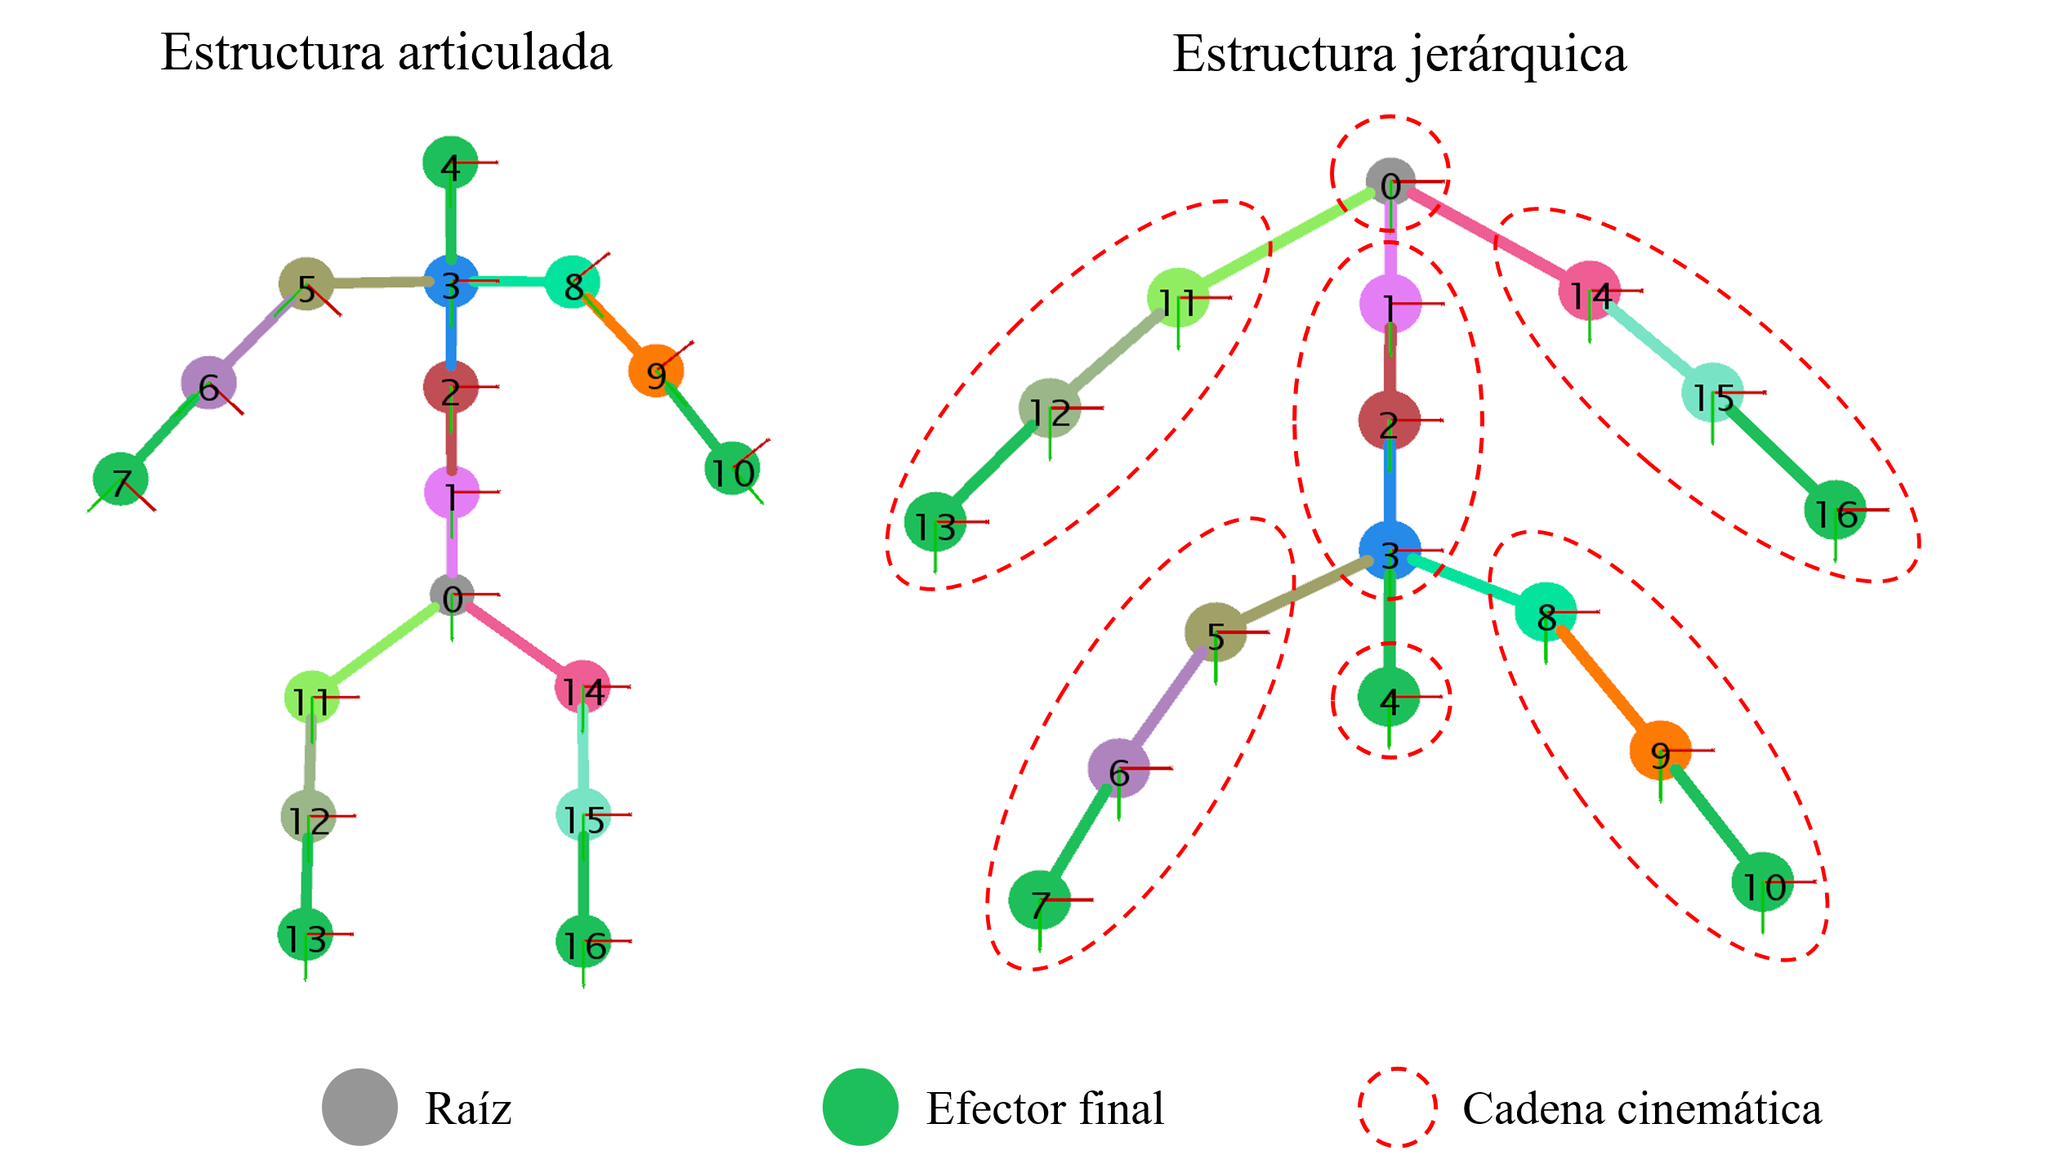
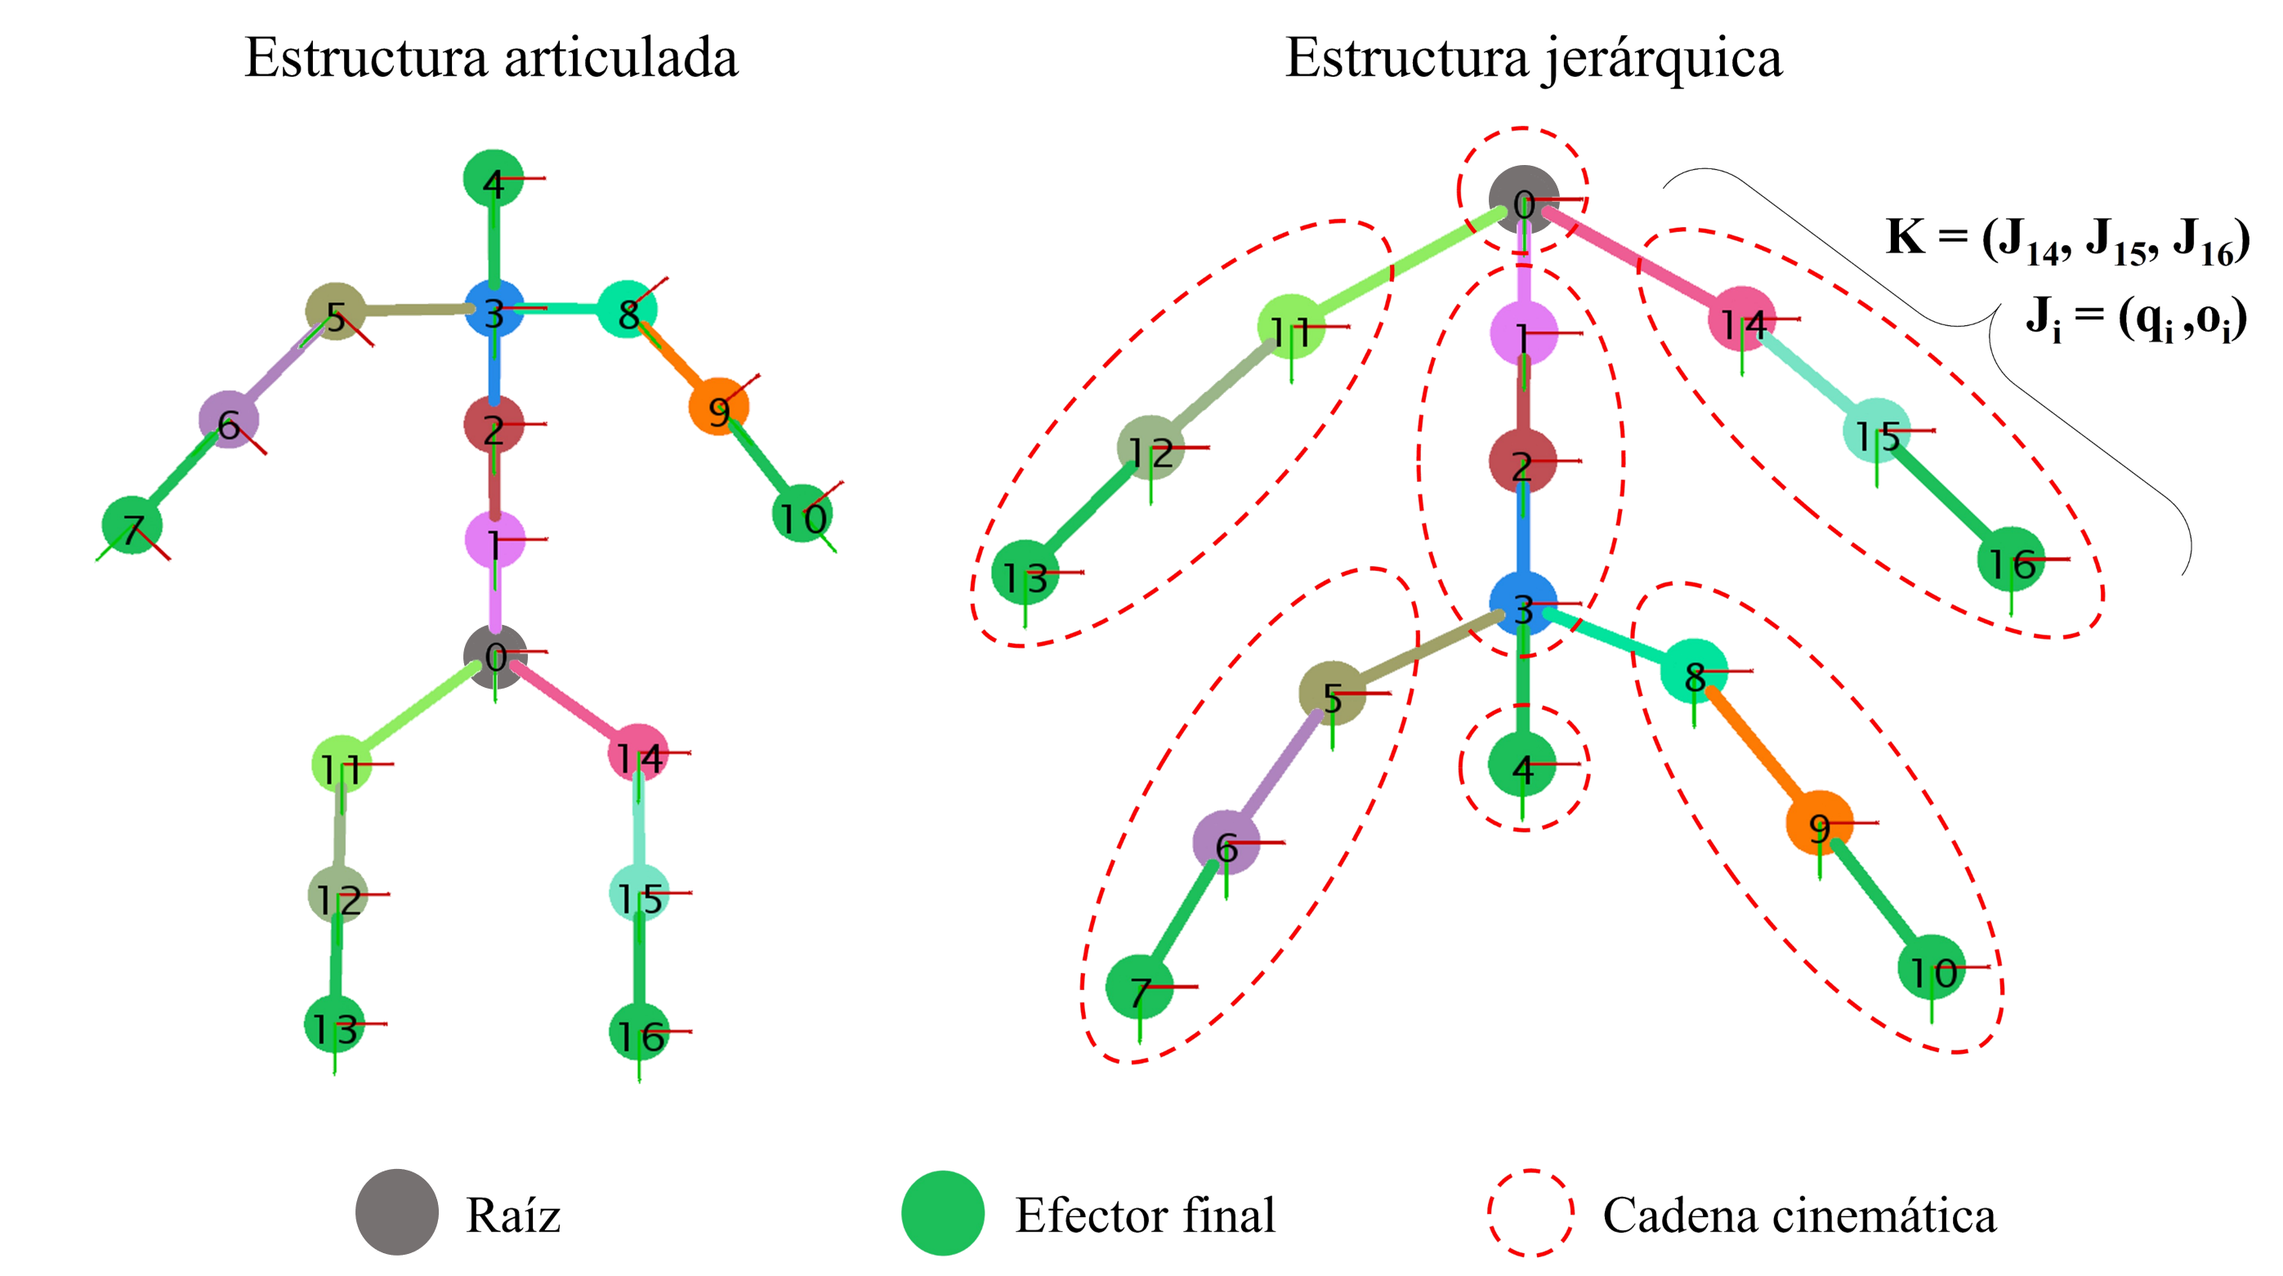
Figs updated and Slides refined

diff --git a/index.html b/index.html
@@ -109,9 +109,15 @@
 
 					<section>
 						<h3><a href="notation.html#/1" target="_blank" style="color: blue;">Estructura articulada - (Estructura de esqueleto)</a></h3>
-						<figure class="fragment" data-fragment-index="4">
-							<img width = "60%" data-src='fig/1Skeleton.jpg'/>
-						</figure>
+
+						<div class="r-stack">
+							<figure class="fragment fade-in-then-out" data-fragment-index="1">
+								<img width = "60%" data-src='fig/1Fig_to_Skeleton.png'/>
+							</figure>
+							<figure class="fragment fade-in-then-out" data-fragment-index="2">
+								<img width = "60%" data-src='fig/1Skeleton.png'/>
+							</figure>
+						</div>
 					</section>
 
 
@@ -124,7 +130,7 @@
 							<h3 class="center">Cinemática directa</h3>
 							<br>
 							<p class="fragment center" data-fragment-index="1">$S_{d} = (^{0}\mathbf{q}_{d}, ^{0}\mathbf{o}_{d}) = f(^{0}\mathbf{q}_{1}, ^{1}\mathbf{q}_{2}, ..., ^{n-1}\mathbf{q}_{n})$</p>
-							<div class="fragment" data-fragment-index="2">
+							<div class="fragment" data-fragment-index="1">
 								<iframe class = "ivideo"  data-src="videos/FK.webm" type="video/webm">
 								</iframe>
 							</div>
@@ -132,9 +138,9 @@
 						<div style="text-align: justify; float : left; width : 50%" class=embed-container >
 							<h3 class="center">Cinemática Inversa</h3>
 							<br>
-							<p class="fragment center" data-fragment-index="3"> $f^{-1}(S_{d}) = ^{0}\mathbf{q}_{1}, ^{1}\mathbf{q}_{2}, ..., ^{n-1}\mathbf{q}_{n}$</p>
+							<p class="fragment center" data-fragment-index="2"> $f^{-1}(S_{d}) = ^{0}\mathbf{q}_{1}, ^{1}\mathbf{q}_{2}, ..., ^{n-1}\mathbf{q}_{n}$</p>
 
-							<div class="fragment" data-fragment-index="4">
+							<div class="fragment" data-fragment-index="2">
 								<iframe class = "ivideo"  data-src="videos/IK.webm" type="video/webm">
 								</iframe>
 							</div>
@@ -248,11 +254,13 @@
 
 					<section>
 						<h3>Cyclic Coordinate Descent (CCD)</h3>
-						<p class="fragment">Encuentra la rotación que alinea a los vectores: $ \mathbf{a}={^{i}\mathbf{o}_{n}} $ y $ \mathbf{b}={^{i}\mathbf{o}_{d}} $</p>
-						<p class="fragment">
+						<div style="font-size: 0.8em;">
+						<p class="fragment" data-fragment-index="1">Encuentra la rotación que alinea a los vectores: $ \mathbf{a}={^{i}\mathbf{o}_{n}} $ y $ \mathbf{b}={^{i}\mathbf{o}_{d}} $</p>
+						<p class="fragment" data-fragment-index="1">
 							$\cos(\theta) = \mathbf{a} \, \cdot \, \mathbf{b} \qquad \mathbf{\hat{r}} = \frac{\mathbf{a}}{\left\rVert{\mathbf{a}}\right\rVert}  \, \times \, \frac{\mathbf{b}}{\left\lVert{\mathbf{b}}\right\rVert} $
 						</p>
-						<div class="fragment">
+						</div>
+						<div class="fragment" data-fragment-index="1">
 							<iframe class = "ivideo"  data-src="videos/CCD_Fast.mp4" type="video/mp4">
 							</iframe>
 						</div>
@@ -260,14 +268,16 @@
 
 					<section>
 						<h3>Triangulation (TIK)</h3>
-						<p class="fragment"> Si los vectores $ {\mathbf{a}={^{i}\mathbf{o}_{i+1}}} $, $ \mathbf{b}={^{i}\mathbf{o}_{n}}-{^{i}\mathbf{o}_{i+1}} $, y $ \mathbf{c}={^{i}\mathbf{o_{d}}} $ forman un triangulo el desplazamiento de $J_i$ es: </p>
-						<p class="fragment">
+						<div style="font-size: 0.8em;">
+						<p class="fragment" data-fragment-index="1"> Si los vectores $ {\mathbf{a}={^{i}\mathbf{o}_{i+1}}} $, $ \mathbf{b}={^{i}\mathbf{o}_{n}}-{^{i}\mathbf{o}_{i+1}} $, y $ \mathbf{c}={^{i}\mathbf{o_{d}}} $ forman un triangulo el desplazamiento de $J_i$ es: </p>
+						<p class="fragment" data-fragment-index="1">
 							$\theta=\cos^{-1}(\mathbf{a}\cdot\mathbf{c})-\cos^{-1}\left(\frac{\mathbf{a}\cdot\mathbf{a}\,+\,\mathbf{c}\cdot\mathbf{c}\,-\,\mathbf{b}\cdot\mathbf{b}}{2\left\rVert {\mathbf{a}} \right\rVert \left\rVert {\mathbf{c}} \right\rVert}\right)\, 
 							\qquad
 							\mathbf{\hat{r}}=\frac{\mathbf{a}\times\mathbf{c}}{\left\rVert {\mathbf{a}} \right\rVert \left\rVert {\mathbf{c}} \right\rVert}
 							$
 						</p>
-						<div class="fragment">
+						</div>
+						<div class="fragment" data-fragment-index="1">
 							<iframe class = "ivideo"  data-src="videos/TIK_Fast.mp4" type="video/mp4">
 							</iframe>
 						</div>
@@ -275,20 +285,20 @@
 
 					<section>
 						<h3>Forward and Backward Reaching Inverse Kinematics (FABRIK)</h3>
-						<p class="fragment"> Sea la posición global de las articulaciones  $ \mathbf{p}_1 = {^{0}\mathbf{o}_{1}}, \mathbf{p}_2 = {^{0}\mathbf{o}_{2}}, … \mathbf{p}_n = {^{0}\mathbf{o}_{n}}$ y sea $ d_i = \left\rVert{\mathbf{p}_{i+1} \, - \, \mathbf{p}_{i}} \right\rVert $ </p>						
-
-						<p class="fragment"> Fase hacia adelante:
+						<div style="font-size: 0.8em;">
+						<p class="fragment" data-fragment-index="1"> Sea la posición global de las articulaciones  $ \mathbf{p}_1 = {^{0}\mathbf{o}_{1}}, \mathbf{p}_2 = {^{0}\mathbf{o}_{2}}, … \mathbf{p}_n = {^{0}\mathbf{o}_{n}}$ y sea $ d_i = \left\rVert{\mathbf{p}_{i+1} \, - \, \mathbf{p}_{i}} \right\rVert $ </p>						
+						<p class="fragment" data-fragment-index="1"> Fase hacia adelante:
 							 $\lambda_i = \frac{d_i}{\left\rVert{\mathbf{p}_{i+1}' \, - \, \mathbf{p}_{i}} \right\rVert }
 							 \qquad
 							 \mathbf{p}_i' = (1 - \lambda_i) \mathbf{p}_{i+1}' + \lambda_i \mathbf{p}_i $
 						</p>						
 
-						<p class="fragment"> Fase hacia atrás:
+						<p class="fragment" data-fragment-index="1"> Fase hacia atrás:
 							$\lambda_i = \frac{d_i}{\left\rVert{\mathbf{p}_{i+1}' \, - \, \mathbf{p}_{i}''}\right\rVert}
 							\qquad
 							\mathbf{p}_{i+1}'' = (1 - \lambda_i) \mathbf{p}_{i}'' + \lambda_i \mathbf{p}_{i+1}' $
 						</p>						
-
+						</div>
 						<div class="fragment">
 							<iframe class = "ivideo"  data-src="videos/FABRIK_Fast.mp4" type="video/mp4">
 							</iframe>
@@ -338,14 +348,11 @@
 					</section>
 
 					<section>
-						<h3>Paso heurístico</h3>
-						<br>	
-						<ul class="justify">
-							<li class = "fragment"> Se define en el espacio de las orientaciones usando algebra de cuaterniones.</li>
-							<li class = "fragment"> Se aplica un desplazamiento rotacional $ {\mathbf{\Delta q}_i} $ sobre una articulacion $J_i$ o $ ({\mathbf{\Delta q}_i},{\mathbf{\Delta q}}_{i+1}) $ una pareja de articulaciones $(J_i, J_{i+1})$.</li>
-							<li class = "fragment"> Siempre se genera una nueva pose factible cuya distancia al objetivo disminuye o se mantiene.</li>
-							<li class = "fragment"> <b>Dadas sus caracteristicas pueden aplicarse en un orden arbitrario y pueden combinarse. </b></li>
-						</ul>	
+						<h3>Definición de paso heurístico</h3>
+						<br>
+						<figure class="fragment">
+							<img width = "95%" data-src='fig/paso_heuristico.png'/>
+						</figure>
 					</section>
 
 					<section>
@@ -362,15 +369,17 @@
 						<div style="text-align: center; float : left; width : 50%;" class=embed-container >
 							<br>
 							<div >
-								<img width = "50%" data-src='fig/TIK1.jpg'/>
+								<img width = "50%" data-src='fig/TIK1.png'/>
 								<p>$ {\mathbf{\Delta q}_{i\_a}}=\left(\cos\left(\frac{\theta_{c} - \theta_{e}}{2}\right), \mathbf{\hat{r}}\sin\left(\frac{\theta_{c} - \theta_{e}}{2}\right)\right) $</p>
 								<p>$ {\mathbf{\Delta q}_{i+1}} = CCD(J_{i+1}) $</p>
 							</div>
 						</div>
+						</div>
+						<div class = "fragment" data-fragment-index="3" style="margin-top: -50px; padding: 0%;">
 						<div style="text-align: justify-all; float : left; width : 50%" class=embed-container >
 							<br>
 							<div >
-								<img width = "50%" data-src='fig/TIK2.jpg'/>
+								<img width = "50%" data-src='fig/TIK2.png'/>
 								<p>$ {\mathbf{\Delta q}_{i\_b}}=\left(cos\left(\frac{\theta_{c} + \theta_{e}}{2}\right),\mathbf{\hat{r}}\sin\left(\frac{\theta_{c} + \theta_{e}}{2}\right)\right) $</p>
 								<p>$ {\mathbf{\Delta q}_{i+1}} = CCD(J_{i+1}) $</p>
 							</div>
@@ -385,19 +394,17 @@
 
 					<section>
 						<h3>Translate and Reach Inverse Kinematics (TRIK)</h3>
-						<p class="fragment" data-fragment-index="1">Inspirado en el algoritmo FABRIK pero trabaja directamente en el espacio de las orientaciones.</p>
-						<div class="fragment" data-fragment-index="2">
+						<p class="fragment" data-fragment-index="1">Inspirado en el algoritmo FABRIK pero trabaja directamente en el espacio de las orientaciones. Considera el movimiento de una pareja de articulaciones $(J_i, J_{i+1})$.</p>
+						<div class="fragment" data-fragment-index="2" style="font-size: 0.8em;">
 							<p> 
 								1. Reducir la distancia a $S_d$: $ {\mathbf{\Delta q}_i}=\left(cos\left(\frac{\theta}{2}\right),\mathbf{\hat{r}}\sin\left(\frac{\theta}{2}\right)\right) $ donde $ \cos(\theta) = \mathbf{a} \, \cdot \, \mathbf{b} $, $ \mathbf{\hat{r}} = \frac{\mathbf{a}}{\left\rVert{\mathbf{a}}\right\rVert}  \, \times \, \frac{\mathbf{b}}{\left\rVert{\mathbf{b}}\right\rVert} $,
-							</p>
-							<p>
 								$ \mathbf{a}={\boldsymbol{o}_{i+1}} $ y $ {\mathbf{b}={^{i}\mathbf{o}_{d}}+{\mathbf{o}_{i+1}}-{^{i}\mathbf{o}_{n}}} $							
 							</p>
 						</div>
-						<p class="fragment" data-fragment-index="2"> 
+						<p class="fragment" data-fragment-index="2" style="font-size: 0.8em;"> 
 							2. Mantener la orientación global de $J_{i+1}$: $ {\mathbf{\Delta q}_{i+1}} = {{\mathbf{q}_{i+1}}^{*}} \, {{\mathbf{\Delta q}_i}^{*}} \, {\mathbf{q}_{i+1}} $ 
 						</p>
-						<div class="fragment" data-fragment-index="3">
+						<div class="fragment" data-fragment-index="2">
 							<iframe class = "ivideo"  data-src="videos/TRIK_Fast.mp4" type="video/mp4">
 							</iframe>
 						</div>
@@ -495,7 +502,7 @@
 						<h3> Algoritmo GHIK para cadenas cinemáticas</h3>
 						<p class="fragment justify">Dada la cadena $ K=(J_{1},\ldots,J_{n}) $ el algoritmo <b><a href="https://app.creately.com/diagram/9BDHQxBKFXK/" style="color: blue;">Generic Heuristic Inverse Kinematics</a></b> (GHIK) se encarga de:</p>
 						<figure class="fragment">
-							<img width = "95%" data-src='fig/GHIK.png'/>
+							<img width = "95%" data-src='fig/ghik.png'/>
 						</figure>
 
 					</section>
@@ -541,7 +548,7 @@
 							<div class="fragment" data-fragment-index="3">
 								<p class="fragment" style="text-align: justify;"> Se debe utilizar la información de los efectores finales para definir los objetivos de las cadenas internas.</p>
 								<div class="fragment">
-								<img data-src='fig/GHIKSkeleton.jpg' style="height: 60vh; margin-top: 0%;"/>
+								<img data-src='fig/GHIKSkeleton.png' style="height: 60vh; margin-top: 0%;"/>
 								</div>
 							</div>
 						</div>
@@ -630,19 +637,19 @@
 						<div style="text-align: justify-all; float : left; width : 40%" class=embed-container >
 							<div class="r-stack">
 								<figure class="fragment fade-in-then-out" data-fragment-index="2">
-									<img width = "50%" data-src='fig/irrestrictas.jpg'/>
+									<img width = "50%" data-src='fig/irrestrictas.png'/>
 								</figure>
 								<figure class="fragment fade-in-then-out" data-fragment-index="3">
-									<img width = "50%" data-src='fig/bisagra.jpg'/>
+									<img width = "50%" data-src='fig/bisagra.png'/>
 								</figure>
 								<figure class="fragment fade-in-then-out" data-fragment-index="4">
-									<img width = "50%" data-src='fig/conicas.jpg'/>
+									<img width = "50%" data-src='fig/conicas.png'/>
 								</figure>
 								<figure class="fragment fade-in-then-out" data-fragment-index="5">
-									<img width = "50%" data-src='fig/mixtas.jpg'/>
+									<img width = "50%" data-src='fig/mixtas.png'/>
 								</figure>
 								<figure class="fragment fade-in" data-fragment-index="6">
-									<img width = "80%" data-src='fig/cadenas.jpg'/>
+									<img width = "80%" data-src='fig/cadenas.png'/>
 								</figure>
 							</div>
 						</div>
@@ -667,16 +674,16 @@
 						<div style="text-align: justify-all; float : left; width : 40%" class=embed-container >
 							<div class="r-stack">
 								<figure class="fragment fade-in-then-out" data-fragment-index="2">
-									<img width = "80%" data-src='fig/DE.jpg'/>
+									<img width = "80%" data-src='fig/DE.png'/>
 								</figure>
 								<figure class="fragment fade-in-then-out" data-fragment-index="4">
-									<img width = "80%" data-src='fig/MT.jpg'/>
+									<img width = "80%" data-src='fig/MT.png'/>
 								</figure>
 								<figure class="fragment fade-in-then-out" data-fragment-index="6">
-									<img width = "80%" data-src='fig/DPMPA.jpg'/>
+									<img width = "80%" data-src='fig/DPMPA.png'/>
 								</figure>
 								<figure class="fragment fade-in-then-out" data-fragment-index="8">
-									<img width = "80%" data-src='fig/DOMPA.jpg'/>
+									<img width = "80%" data-src='fig/DOMPA.png'/>
 								</figure>
 								<figure class="fragment fade-in-then-out" data-fragment-index="10">
 									<img width = "80%" data-src='fig/IG2.jpg'/>
@@ -699,7 +706,7 @@
 					</section>
 
 					<section>
-						<h2> <a href="single_effector.html#/1" target="_blank" style="color: blue;">Resultados especificos</a></h2>
+						<h2> <a href="single_effector.html#/1" target="_blank" style="color: blue;">Resultados específicos</a></h2>
 					</section>
 
 				</section>				
@@ -735,39 +742,39 @@
 							<div class="fragment" data-fragment-index="1">
 								<div class="r-stack">
 									<figure class="fragment fade-in-then-out" data-fragment-index="2">
-										<img width = "80%" data-src='fig/humano.jpg'/>
+										<img width = "80%" data-src='fig/humano.png'/>
 										<p>Articulaciones: 23</p>
 										<p>Efectores finales: 5</p>
 									</figure>
 									<figure class="fragment fade-in-then-out" data-fragment-index="3">
-										<img width = "80%" data-src='fig/gato.jpg'/>
+										<img width = "80%" data-src='fig/gato.png'/>
 										<p>Articulaciones: 44</p>
 										<p>Efectores finales: 11</p>
 									</figure>
 									<figure class="fragment fade-in-then-out" data-fragment-index="4">
-										<img width = "80%" data-src='fig/arana.jpg'/>
+										<img width = "80%" data-src='fig/arana.png'/>
 										<p>Articulaciones: 62</p>
 										<p>Efectores finales: 14</p>
 									</figure>
 									<figure class="fragment fade-in-then-out" data-fragment-index="5">
-										<img width = "80%" data-src='fig/tirano.jpg'/>
+										<img width = "80%" data-src='fig/tirano.png'/>
 										<p>Articulaciones: 69</p>
 										<p>Efectores finales: 16</p>
 									</figure>
 									<figure class="fragment fade-in-then-out" data-fragment-index="6">
-										<img width = "80%" data-src='fig/mono.jpg'/>
+										<img width = "80%" data-src='fig/mono.png'/>
 										<p>Articulaciones: 86</p>
 										<p>Efectores finales: 22</p>
 									</figure>
 
 									<figure class="fragment fade-in-then-out" data-fragment-index="7">
-										<img width = "80%" data-src='fig/dragon.jpg'/>
+										<img width = "80%" data-src='fig/dragon.png'/>
 										<p>Articulaciones: 143</p>
 										<p>Efectores finales: 40</p>
 									</figure>
 
 									<figure class="fragment fade-in" data-fragment-index="8">
-										<img width = "90%" data-src='fig/multiples.jpg'/>
+										<img width = "90%" data-src='fig/multiples.png'/>
 									</figure>
 								</div>
 							</div>
@@ -791,19 +798,19 @@
 						<div style="text-align: justify-all; float : left; width : 40%" class=embed-container >
 							<div class="r-stack">
 								<figure class="fragment fade-in-then-out" data-fragment-index="2">
-									<img width = "80%" data-src='fig/DPM.jpg'/>
+									<img width = "80%" data-src='fig/DPM.png'/>
 								</figure>
 								<figure class="fragment fade-in-then-out" data-fragment-index="4">
-									<img width = "80%" data-src='fig/DOM.jpg'/>
+									<img width = "80%" data-src='fig/DOM.png'/>
 								</figure>
 								<figure class="fragment fade-in-then-out" data-fragment-index="6">
-									<img width = "60%" data-src='fig/MTM.jpg'/>
+									<img width = "60%" data-src='fig/MTM.png'/>
 								</figure>
 								<figure class="fragment fade-in-then-out" data-fragment-index="8">
-									<img width = "60%" data-src='fig/EPMPA.jpg'/>
+									<img width = "60%" data-src='fig/EPMPA.png'/>
 								</figure>
 								<figure class="fragment fade-in-then-out" data-fragment-index="10">
-									<img width = "80%" data-src='fig/EOMPA.jpg'/>
+									<img width = "80%" data-src='fig/EOMPA.png'/>
 								</figure>
 							</div>
 						</div>
@@ -823,7 +830,7 @@
 					</section>
 
 					<section>
-						<h2> <a href="multiple_effectors.html#/1" target="_blank" style="color: blue;">Resultados especificos</a></h2>
+						<h2> <a href="multiple_effectors.html#/1" target="_blank" style="color: blue;">Resultados específicos</a></h2>
 					</section>
 
 				</section>				

diff --git a/single_effector.html b/single_effector.html
@@ -135,16 +135,18 @@
 							<p>Your browser does not support iframes.</p>
 						  </iframe>						
 					</section>
-                </section>
 
-				<section>
-					<h3>Resultados generales</h3>
-					<iframe class = "results" marginheight="0" marginwidth="0" data-src="generated_html/single/resume.html">
-						<p>Your browser does not support iframes.</p>
-					  </iframe>						
+                    <section>
+                        <h2>Resultados generales</h2>
+                    </section>
+
+					<section>
+						<iframe class = "results" marginheight="0" marginwidth="0" data-src="generated_html/single/resume.html">
+							<p>Your browser does not support iframes.</p>
+						</iframe>						
+					</section>
+
 				</section>
-
-
             </div>
 		</div>
 

diff --git a/fig/makeTransparent.py b/fig/makeTransparent.py
@@ -1,0 +1,22 @@
+import numpy as np
+from PIL import Image
+from os import listdir
+from os.path import isfile, join
+
+def makeTransparent(file, threshold = 140, dist = 20):
+    img = Image.open(file)
+    img = img.convert("RGBA")
+    datas = img.getdata()
+    newData = []
+    for item in datas:
+        if item[0] >= threshold and item[1] >= threshold and item[2] >= threshold \
+            and abs(item[0]-item[1]) <=dist and abs(item[0]-item[2]) <=dist and abs(item[1]-item[2]) <=dist:
+            newData.append((255, 255, 255, 0))
+        else:
+            newData.append(item)
+    img.putdata(newData)
+    img.save("transparent_" + file + ".png", "PNG")
+    print("File " + file + " converted.")
+
+for file in [f for f in listdir("./") if (f.endswith("jpg") and isfile(join("./", f)))]:
+    makeTransparent(file)
